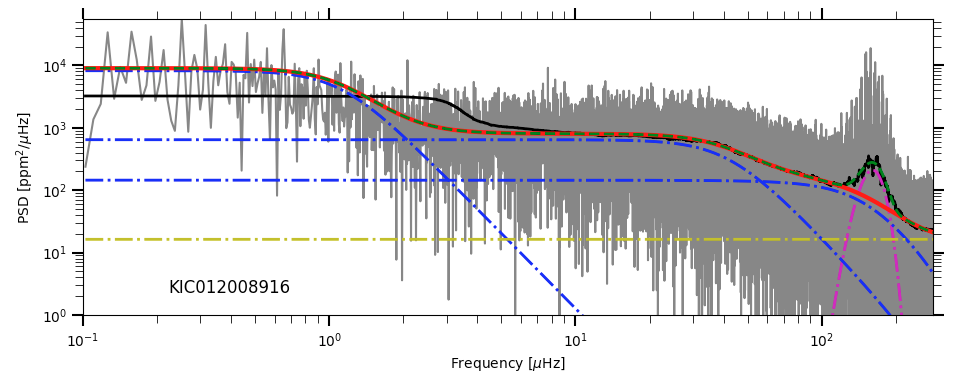
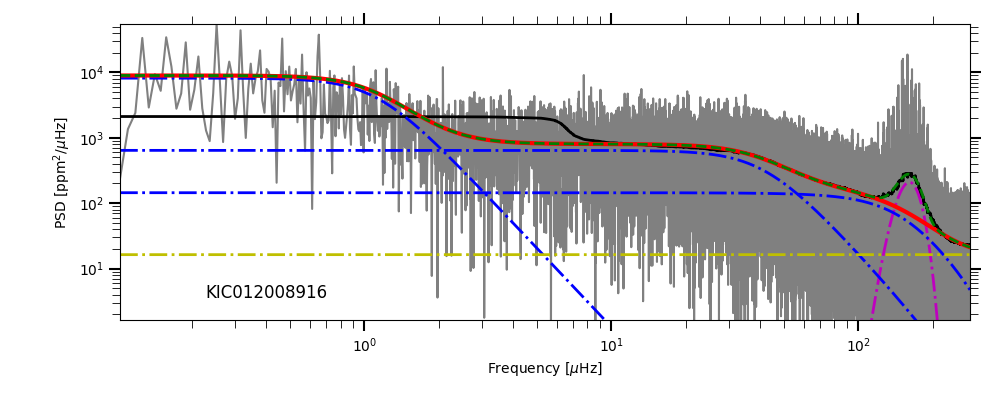
Corrected errors in Python plotting routines and prior generation. Updated tutorial figures accordingly.

diff --git a/tutorials/background.py b/tutorials/background.py
@@ -86,6 +86,13 @@ def get_working_paths(catalog_id,star_id,subdir):
     data_dir = local_path + 'data/' 
     star_dir = local_path + 'results/' + catalog_id + star_id + '/'
     results_dir = star_dir + subdir + '/'
+
+    if not os.path.isdir(star_dir):
+        os.mkdir(star_dir)
+
+    if not os.path.isdir(results_dir):
+        os.mkdir(results_dir)
+
     return data_dir,star_dir,results_dir
 
 def background_plot(catalog_id,star_id,subdir,params=None):
@@ -132,7 +139,7 @@ def background_plot(catalog_id,star_id,subdir,params=None):
     numax = params[-2]
     dnu = 0.267*numax**0.760
     freqbin = freq[1]-freq[0]
-    width = dnu/2./freqbin
+    width = dnu/freqbin
     win_len=int(width)
     if win_len % 2 == 0: win_len += 1
     psd_smth = smooth(psd,window_len=win_len,window='flat')
@@ -141,18 +148,19 @@ def background_plot(catalog_id,star_id,subdir,params=None):
     # Plot the region of PSD containing the fitted background components
     # -------------------------------------------------------------------------------------------------------
     pdf = PdfPages(star_dir + catalog_id + star_id + '_' + subdir + '_Background.pdf')
+    b1,b2,h_long,h_gran1,h_gran2,g,w,h_color=background_function(params,freq,model_name)
+    
     fig = plt.figure(1,figsize=(10,4))
     plt.clf()
     ax1 = plt.subplot(1,1,1)
     plt.loglog(freq,psd,color='grey')
-    plt.xlim(0.1, np.max(freq))
-    plt.ylim(1,np.max(psd))
+    plt.xlim(np.min(freq), np.max(freq))
+    plt.ylim(np.min(w)*0.1,np.max(psd))
     plt.xlabel(r'Frequency [$\mu$Hz]')
     plt.ylabel(r'PSD [ppm$^2$/$\mu$Hz]')
     ax1.tick_params(width=1.5,length=8,top=True,right=True)
     ax1.tick_params(which='minor',length=6,top=True,right=True)
     plt.plot(freq,psd_smth,'k',lw=2)
-    b1,b2,h_long,h_gran1,h_gran2,g,w,h_color=background_function(params,freq,model_name)
     plt.plot(freq,g,'m-.',lw=2)
     plt.plot(freq,h_color,'y-.',lw=2)
     plt.plot(freq,h_long,'b-.',lw=2)
@@ -248,7 +256,7 @@ def background_mpd(catalog_id,star_id,subdir):
     fig = plt.figure(2,figsize=(11,7))
     plt.clf()
 
-    for parnumb in range(0,n_param-1):
+    for parnumb in range(0,n_param):
         if parnumb < 10:
             parstr = '0' + str(parnumb)
         else:
@@ -319,7 +327,7 @@ def background_parhist(catalog_id,star_id,subdir):
     fig = plt.figure(3,figsize=(11,7))
     plt.clf()
 
-    for parnumb in range(0,nparam-1):
+    for parnumb in range(0,nparam):
         if parnumb < 10:
             parstr = '0' + str(parnumb)
         else:
@@ -564,12 +572,15 @@ def parameter_evolution(catalog_id,star_id,subdir):
     data_dir,star_dir,results_dir = get_working_paths(catalog_id,star_id,subdir)
     filename_summary = np.sort(glob.glob(results_dir + prefix + 'parameter0*.txt'))
     nparam = filename_summary.size
-    
+   
+    print(nparam)
+    print(results_dir)
+
     plt.ion()
     fig = plt.figure(5,figsize=(11,7))
     plt.clf()
 
-    for parnumb in range(0,nparam-1):
+    for parnumb in range(0,nparam):
         if parnumb < 10:
             parstr = '0' + str(parnumb)
         else:
@@ -616,8 +627,13 @@ def set_background_priors(catalog_id,star_id,numax,model_name,dir_flag=0):
     print(' ---------------------------------------------- ')
     print(' Creating Background priors for ' + catalog_id + star_id)
     print(' ---------------------------------------------- ')
-    
-    data_dir,star_dir,results_dir = get_working_paths(catalog_id,star_id,'0')
+   
+    if dir_flag < 10:
+        subdir_str = '0' + str(dir_flag)
+    else:
+        subdir_str = str(dir_flag)
+
+    data_dir,star_dir,results_dir = get_working_paths(catalog_id,star_id,subdir_str)
     freq,psd = get_background_data(catalog_id,star_id,data_dir)
 
     numax_range = numax*0.1
@@ -625,7 +641,7 @@ def set_background_priors(catalog_id,star_id,numax,model_name,dir_flag=0):
     upper_numax = numax + numax_range
     dnu = 0.267*numax**0.760
     sigma = 2.0 * dnu
-    sigma_range = sigma*0.4
+    sigma_range = sigma*0.2
     lower_sigma = sigma - sigma_range*1.5
     upper_sigma = sigma + sigma_range
 
@@ -740,7 +756,7 @@ def set_background_priors(catalog_id,star_id,numax,model_name,dir_flag=0):
     
     if model_name == 'OneHarveyNoGaussian':
         lower_nu_g1 = np.min(freq)
-        boundaries = [lower_white_noise, upper_white_noise, lower_amp_g1, upper_amp_g1, lower_nu_g1, upper_nu_g1]
+        boundaries = [lower_white_noise, upper_white_noise, lower_amp_g2, upper_amp_g2, lower_nu_g2, upper_nu_g2]
     
     if model_name == 'TwoHarveyNoGaussian':
         lower_nu_g1 = np.min(freq)
@@ -756,13 +772,13 @@ def set_background_priors(catalog_id,star_id,numax,model_name,dir_flag=0):
     
     if model_name == 'OneHarvey':
         lower_nu_g1 = np.min(freq)
-        boundaries = [lower_white_noise, upper_white_noise, lower_amp_g1, upper_amp_g1, lower_nu_g1, upper_nu_g1, 
+        boundaries = [lower_white_noise, upper_white_noise, lower_amp_g2, upper_amp_g2, lower_nu_g2, upper_nu_g2, 
                         lower_height, upper_height, lower_numax, upper_numax, lower_sigma, upper_sigma]
     
     if model_name == 'OneHarveyColor':
         lower_nu_g1 = np.min(freq)
         boundaries = [lower_white_noise, upper_white_noise, lower_amp_color, upper_amp_color, lower_nu_color, upper_nu_color, 
-                        lower_amp_g1, upper_amp_g1, lower_nu_g1, upper_nu_g1, 
+                        lower_amp_g2, upper_amp_g2, lower_nu_g2, upper_nu_g2, 
                         lower_height, upper_height, lower_numax, upper_numax, lower_sigma, upper_sigma]
     
     if model_name == 'TwoHarvey':
@@ -789,14 +805,6 @@ def set_background_priors(catalog_id,star_id,numax,model_name,dir_flag=0):
 
     # Write an ASCII file for the priors
     
-    if dir_flag < 10:
-        subdir_str = '0' + str(dir_flag)
-    else:
-        subdir_str = str(dir_flag)
-
-    if not os.path.isdir(star_dir + subdir_str):
-        os.mkdir(star_dir + subdir_str)
-
     filename = star_dir + 'background_hyperParameters_' + subdir_str + '.txt'
 
     header="""
@@ -823,8 +831,6 @@ def set_background_priors(catalog_id,star_id,numax,model_name,dir_flag=0):
     os.makedirs(os.path.dirname(filename), exist_ok=True)
     with open(filename, 'w') as f:
         f.write('{}'.format(np.max(freq)))
-
-    #np.savetxt(filename, np.array(np.max(freq)),fmt='%.6f')
 
 
     # Write a file with the parameters for the X means clustering algorithm.
